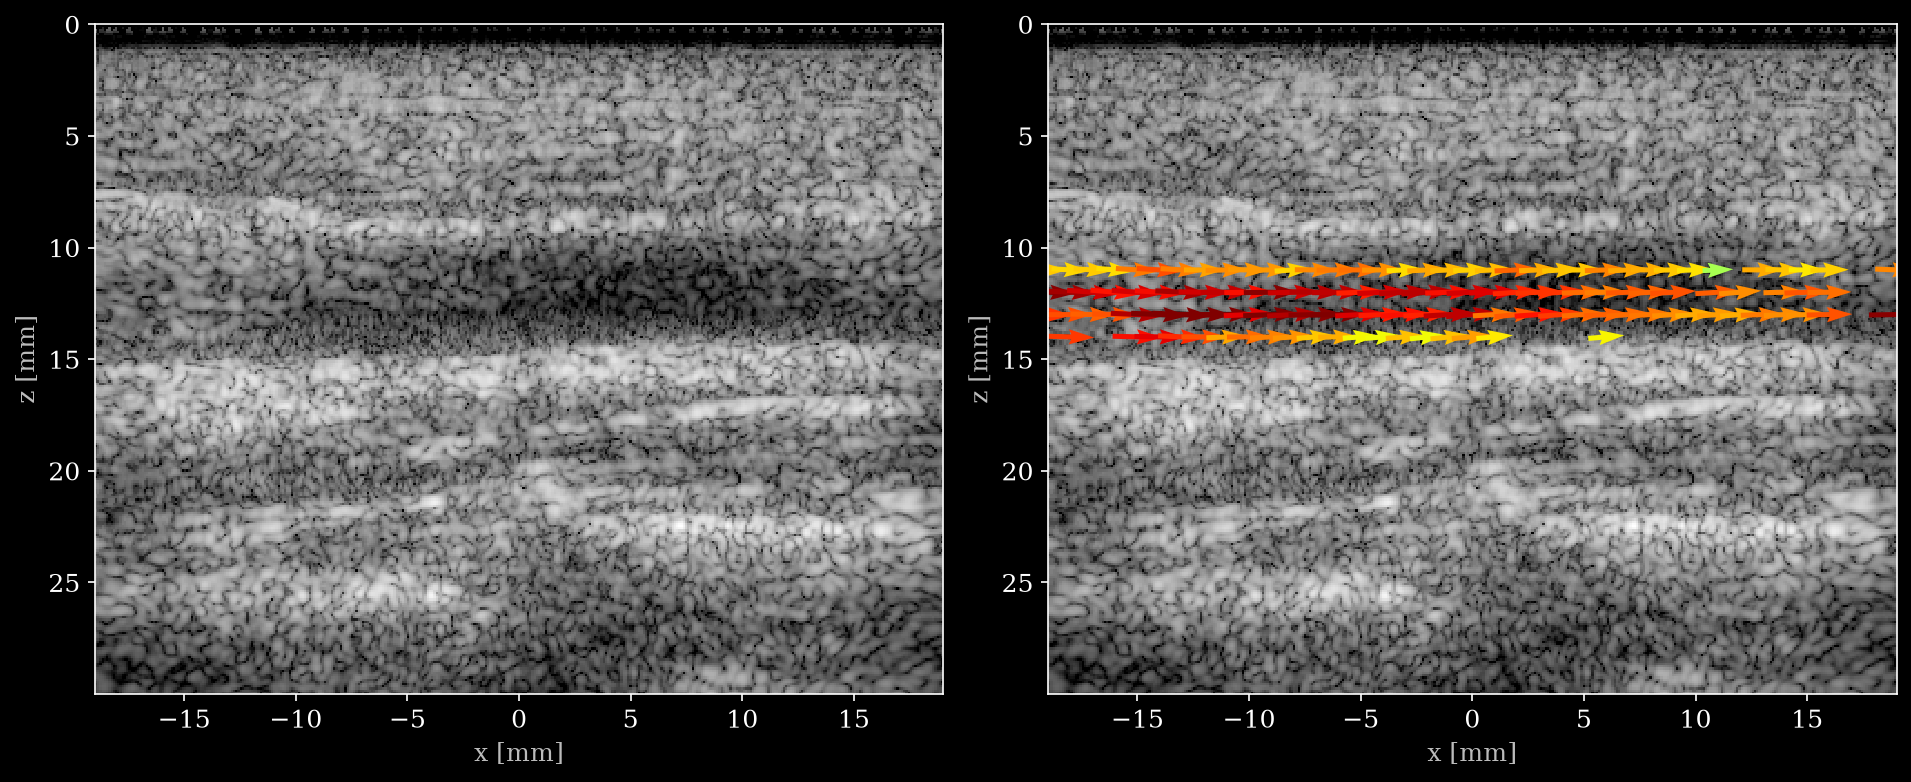
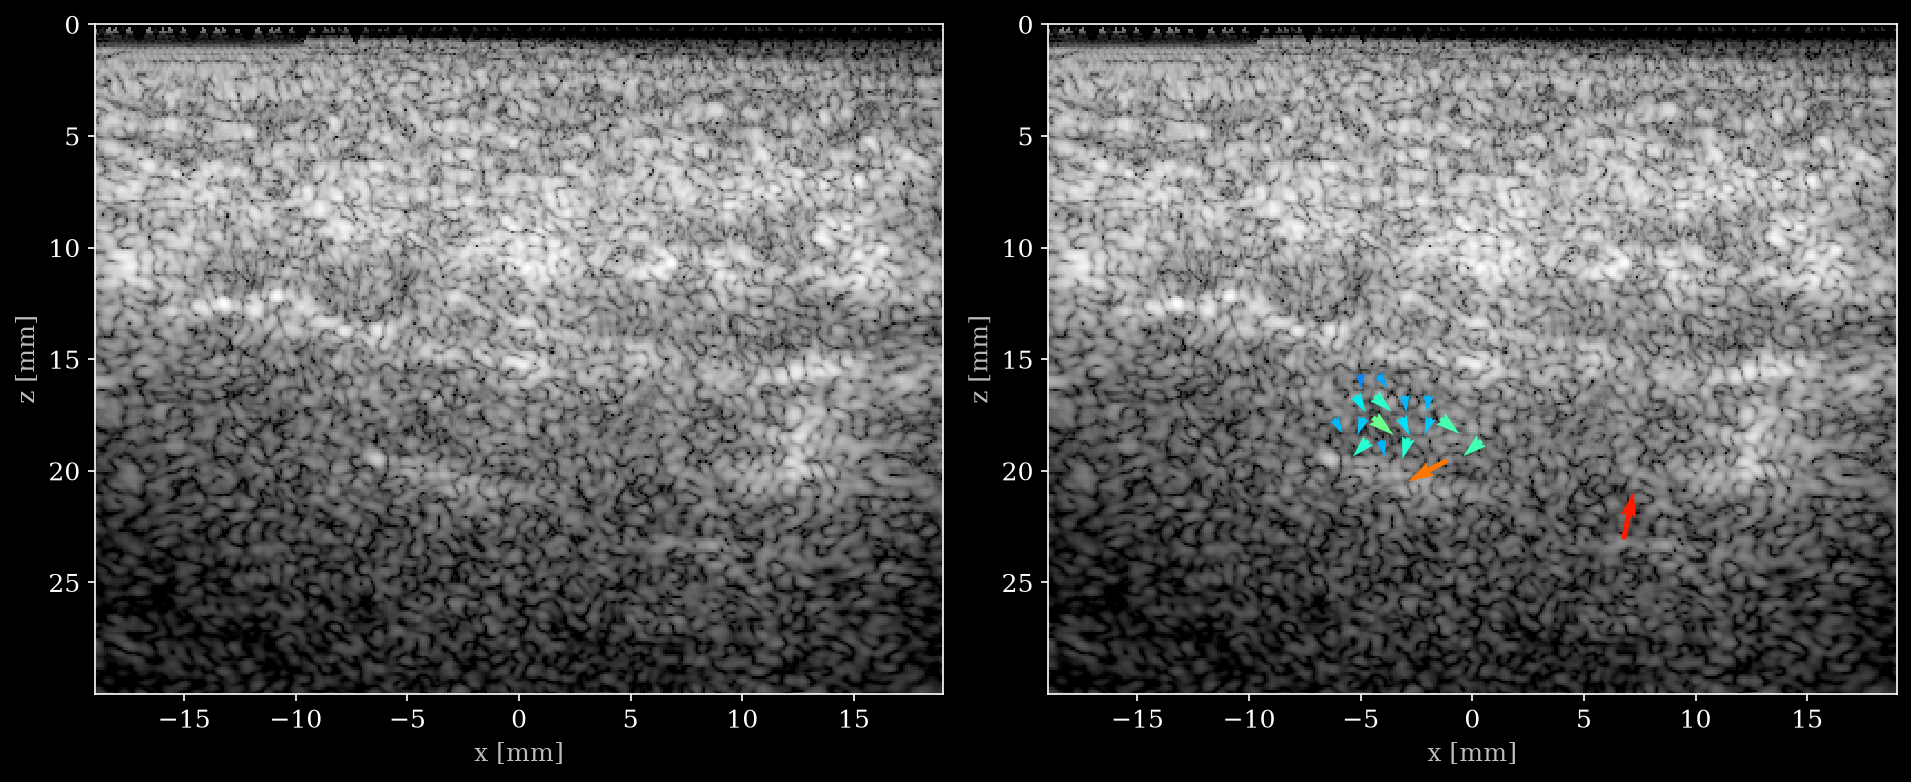
Revert "Waterloo updates"

diff --git a/datasets/waterloo-largeartery/reconstruct.py b/datasets/waterloo-largeartery/reconstruct.py
@@ -1,5 +1,5 @@
 # SPDX-License-Identifier: Apache-2.0
-"""Example reconstruction script for the waterloo-femoralvein dataset of OpenH-RF.
+"""Example reconstruction script for the waterloo-largeartery dataset of OpenH-RF.
 
 Dataset link: https://huggingface.co/datasets/nvidia/OpenH-RF/tree/main/waterloo-largeartery
 
@@ -56,21 +56,21 @@ DYNAMIC_RANGE = [-50, 0]  # dB; written to pipeline.yaml, tweak it there
 # zea process reproduces the same field of view.
 PARAMETERS = {
     "xlims": [-0.019, 0.019],
-    "zlims": [0.010, 0.060],
+    "zlims": [0.010, 0.045],  # RF runs out at 48.5 mm; signal ends ~41.8 mm
     "grid_size_x": 381,
-    "grid_size_z": 501,
+    "grid_size_z": 451,
     "dynamic_range": DYNAMIC_RANGE,
 }
 
 # --- Inputs -----------------------------------------------------------------
 # Defaults stream straight from the published corpus. Swap any of these for a
 # local path to run against your own copy.
-ZEA_FILE = "hf://nvidia/OpenH-RF/waterloo-largeartery/data/Acq0.hdf5"
+ZEA_FILE = "hf://nvidia/OpenH-RF/waterloo-largeartery/data/Acq5.hdf5"
 CONFIG = HERE / "pipeline.yaml"
 OUT = HERE / "assets" / "reconstruct_output.png"
 HF_CONFIG = "hf://nvidia/OpenH-RF/waterloo-largeartery/pipeline.yaml"
-FRAME = 5200
-POWER_THRESHOLD = 58.0  # Power Doppler mask threshold (dB); covers the vein lumen
+FRAME = 100
+POWER_THRESHOLD = 50.0  # Power Doppler mask threshold (dB); covers the vein lumen
 VMAX = 1.0  # Velocity color-scale max (m/s) for the quiver overlay; None -> 99th pct
 NO_DEALIAS = False  # Use the raw (aliased) velocity fields even when dealiased ones exist
 

diff --git a/datasets/waterloo-carotid/reconstruct.py b/datasets/waterloo-carotid/reconstruct.py
@@ -63,12 +63,12 @@ PARAMETERS = {
 # --- Inputs -----------------------------------------------------------------
 # Defaults stream straight from the published corpus. Swap any of these for a
 # local path to run against your own copy.
-ZEA_FILE = "hf://nvidia/OpenH-RF/waterloo-carotid/data/Acq1.hdf5"
+ZEA_FILE = "hf://nvidia/OpenH-RF/waterloo-carotid/data/Acq90.hdf5"
 CONFIG = HERE / "pipeline.yaml"
 OUT = HERE / "assets" / "reconstruct_output.png"
 HF_CONFIG = "hf://nvidia/OpenH-RF/waterloo-carotid/pipeline.yaml"
-FRAME = 250
-POWER_THRESHOLD = 55.0  # Power Doppler mask threshold (dB)
+FRAME = 100
+POWER_THRESHOLD = 38.0  # Power Doppler mask threshold (dB); this data peaks near 46
 
 
 def draw_velocity_field(

diff --git a/datasets/waterloo-largeartery/README.md b/datasets/waterloo-largeartery/README.md
@@ -1,5 +1,5 @@
 ---
-name: waterloo-femoralvein
+name: waterloo-largeartery
 pretty_name: UW-FemVeinRF
 license: cc-by-4.0
 task_categories:
@@ -23,9 +23,9 @@ size_categories:
 
 # UW-FemVein RF
 
-![Vector flow cineloop from Acq0.hdf5](assets/Acq0.gif)
+![Reconstructed cineloop from Acq5.hdf5](assets/Acq5.gif)
 
-*Cine loop of [`data/Acq0.hdf5`](https://huggingface.co/datasets/nvidia/OpenH-RF/blob/main/waterloo-largeartery/data/Acq0.hdf5), rendered from provided velocity fields.*
+*Cine loop of [`data/Acq5.hdf5`](https://huggingface.co/datasets/nvidia/OpenH-RF/blob/main/waterloo-largeartery/data/Acq5.hdf5), reconstructed from the raw channel data with the `pipeline.yaml` in this folder.*
 
 ## Dataset Description
 
@@ -67,13 +67,13 @@ The acquisitions can be processed with the `pipeline.yaml` definition in this fo
 
 ```bash
 zea process \
-  --dataset hf://nvidia/OpenH-RF/waterloo-largeartery/data/Acq0.hdf5 \
+  --dataset hf://nvidia/OpenH-RF/waterloo-largeartery/data/Acq5.hdf5 \
   --config hf://nvidia/OpenH-RF/waterloo-largeartery/pipeline.yaml \
   --n-frames 1 \
   --save-as png
 ```
 
-Alternatively, you can use the `reconstruct.py` [script](https://github.com/open-h/OpenH-RF/blob/main/datasets/waterloo-femoralvein/reconstruct.py) as provided in the [OpenH-RF GitHub repository](https://github.com/open-h/OpenH-RF).
+Alternatively, you can use the `reconstruct.py` [script](https://github.com/open-h/OpenH-RF/blob/main/datasets/waterloo-largeartery/reconstruct.py) as provided in the [OpenH-RF GitHub repository](https://github.com/open-h/OpenH-RF).
 
 Swap `--n-frames 1 --save-as png` for `--save-as gif` to get the cine loop. In the script, `ZEA_FILE`, `FRAME`, `POWER_THRESHOLD` (the power-Doppler mask threshold, in dB), `VMAX` (velocity colour-scale maximum) and `NO_DEALIAS` at the top select what is reconstructed and overlaid.
 
@@ -110,14 +110,23 @@ Per-sample contents of the converted HDF5:
 
 All `coordinates` arrays are per-pixel Cartesian positions in meters, last axis `[x, y, z]` (y = 0 for 2-D maps).
 
+## Shipped Example Acquisitions
 
+One example acquisition is included under `hdf5/` as a representative subset of the full dataset:
 
+| File | Subject | Anatomy | View | Condition | Frames |
+|---|---|---|---|---|---|
+| `hdf5/Acq0.hdf5` | 1 | Femoral Vein | Longitudinal | Contraction 8Kg HUT 40 | 9000-12000 |
+
+Each femoral vein acquisition comprises 2 steered plane-wave transmits (`n_tx = 2`), 2048/3072 axial samples, and 192 receive channels. Note that example provided was convrted with start-frame=9000 to get to the interesting part.
+
+The frame count in these examples is truncated for demonstration; full acquisitions contain the frame counts described below.
 
 ## Dataset Quantification
 
 **Current OpenH-RF release:** 15 HDF5 files; 941.96 GB (941,958,804,227 bytes) stored; root `zea_version` **0.1.5**. Sizes include all HDF5 contents and use decimal units (MB = 10^6 bytes, GB = 10^9 bytes, TB = 10^12 bytes), not decoded-array memory or original-source download sizes.
 
-Data was collected from 15 participants and consists of 15 acquisitions (one per participant), containing 12,000 frames of raw RF data per acquisition. Each participant performed isometric plantarflexion contractions at 8 Kg under head up tilt of 40 degrees. Each femoral vein acquisition comprises 2 steered plane-wave transmits (`n_tx = 2`), 2048/3072 axial samples, and 192 receive channels. 
+Data was collected from 15 participants and consists of 15 acquisitions (one per participant), containing 12,000 frames of raw RF data per acquisition. Each participant performed isometric plantarflexion contractions at 8 Kg under head up tilt of 40 degrees.
 
 ## Subject Metadata
 
@@ -145,9 +154,9 @@ Data was collected from 15 participants and consists of 15 acquisitions (one per
    - **Reconstruction Grid:** Cartesian coordinates mapped by a `PixelMap` representing a lateral range of $[-19, 19]\text{ mm}$ and axial depth of $[10, 60]\text{ mm}$ at $0.1\text{ mm}$ spatial resolution.
 3. **Clutter Filtering:** Clutter filtering is performed on the beamformed ensemble using a high-pass wall filter (normalized cut-off frequencies of 0.05 and 0.1, attenuation of 100 dB).
 4. **Multi-Angle Doppler Frequency Estimation:** Angle-specific Doppler frequencies are computed using an ensemble size of 64 frames with a step size of 1.
-   - For conventional vector velocity estimation, we used the following Tx-Rx angles: Tx: [-10°, -10°, 10°, 10°]; Rx: [-10°, 10°, -10°, 10°]
-   - For dealiased vector velocity estimation, we used the following Tx-Rx angles: Tx: [-10°, -10°, -10°,-10°, 10°, 10°]; Rx: [-10°, -3°, 6°, 10°, -6°, 3°,10°]
-   - Color Doppler map is selected as the first of these (Tx: -10°, Rx = -10°)
+   - For conventional vector velocity estimation, we used the following Tx-Rx angles: Tx: [-10, -10, 10, 10]; Rx: [-10, 10, -10, 10]
+   - For dealiased vector velocity estimation, we used the following Tx-Rx angles: Tx: [-10, -10, -10,-10, 10, 10]; Rx: [-10, -3, 6, 10, -6, 3,10]
+   - Color Doppler map is selected as the first of these (Tx: -10, Rx = -10)
 5. **Vector Doppler Velocity Estimation:** Lateral ($v_x$) and axial ($v_z$) velocity components are computed from the multi-angle Doppler frequency estimates using GPU-accelerated least-squares estimation. Lateral ($v_x$) and axial ($v_z$) dealiased velocity components are computed from the multi-angle Doppler frequency estimates using GPU-accelerated extended least-squares estimation.
 
 The full LITMUS processing pipeline (GPU DAS beamforming + multi-angle vector Doppler) is documented by the contributors. That documentation is provided for provenance and reproducibility; it depends on the LITMUS core Python package and the raw acquisition frames, so it is not runnable from this folder alone.
@@ -164,7 +173,7 @@ B. Y. S. Yiu and A. C. H. Yu, "Least-Squares Multi-Angle Doppler Estimators for 
 
 `reconstruct.py` builds a `zea.Pipeline` of DAS beamforming → envelope detection → normalization → log-compression **in code** and reconstructs a B-mode directly from `raw_data`, showing the raw-to-image flow without any config file. It also saves the pipeline to `pipeline.yaml` as a shareable recipe. Comparing the reconstruction against the stored (LITMUS) B-mode is a sanity check that the acquisition parameters and probe geometry are recorded correctly, and serves as a reproducible reference reconstruction.
 
-When the vector-flow fields (`vector_velocity_x/z`/`vector_velocity_x/z_deal` + `power_doppler`) are present, the vector velocity field is overlayed on the stored B-mode. The overlay uses `draw_velocity_field`, a single self-contained (numpy + matplotlib) helper reproduced inside `reconstruct.py` from the LITMUS core Python package (`litmus.core_py.visualization`), so the script has no dependency on the full LITMUS GPU stack.
+When the vector-flow fields (`vector_velocity_x/z`/`vector_velocity_x/z_deal` + `power_doppler`) are present, a third panel overlays the vector velocity field on the stored B-mode. The overlay uses `draw_velocity_field`, a single self-contained (numpy + matplotlib) helper reproduced inside `reconstruct.py` from the LITMUS core Python package (`litmus.core_py.visualization`), so the script has no dependency on the full LITMUS GPU stack.
 
 The result is written to `reconstruct_output.png`:
 

diff --git a/datasets/waterloo-carotid/README.md b/datasets/waterloo-carotid/README.md
@@ -22,9 +22,9 @@ size_categories:
 
 # UW-Carotid RF
 
-![Reconstructed cineloop from Acq1.hdf5](assets/Acq1.gif)
+![Reconstructed cineloop from Acq90.hdf5](assets/Acq90.gif)
 
-*Cine loop of [`data/Acq1.hdf5`](https://huggingface.co/datasets/nvidia/OpenH-RF/blob/main/waterloo-carotid/data/Acq1.hdf5), rendered using provided velocity fields.*
+*Cine loop of [`data/Acq90.hdf5`](https://huggingface.co/datasets/nvidia/OpenH-RF/blob/main/waterloo-carotid/data/Acq90.hdf5), reconstructed from the raw channel data with the `pipeline.yaml` in this folder.*
 
 ## Dataset Description
 
@@ -35,7 +35,7 @@ Raw RF frames (plane wave) and vector flow profiles of the human carotid arterie
 - Hassan Nahas <hassan.nahas@uwaterloo.ca>
 - Jason Y. -H. Hsu <jason.hsu@uwaterloo.ca>
 - Theresa Gu <theresa.gu@uwaterloo.ca>
-- Adrian J. Y. Chee <adrian.chee@uwaterloo.ca>
+- Adrian J. Y. Chee
 - Alfred C. H. Yu <alfred.yu@uwaterloo.ca>
 - LITMUS, University of Waterloo
 
@@ -65,7 +65,7 @@ The acquisitions can be processed with the `pipeline.yaml` definition in this fo
 
 ```bash
 zea process \
-  --dataset hf://nvidia/OpenH-RF/waterloo-carotid/data/Acq1.hdf5 \
+  --dataset hf://nvidia/OpenH-RF/waterloo-carotid/data/Acq90.hdf5 \
   --config hf://nvidia/OpenH-RF/waterloo-carotid/pipeline.yaml \
   --n-frames 1 \
   --save-as png
@@ -106,13 +106,24 @@ Per-sample contents of the converted HDF5:
 
 All `coordinates` arrays are per-pixel Cartesian positions in meters, last axis `[x, y, z]` (y = 0 for 2-D maps).
 
+## Shipped Example Acquisitions
+
+Two example acquisitions are included under `hdf5/` as a representative subset of the full dataset:
+
+| File | Subject | Anatomy | View | Condition | Frames |
+|---|---|---|---|---|---|
+| `hdf5/Acq0.hdf5` | 1 | Common Carotid Artery | Longitudinal | Baseline | 500 |
+| `hdf5/Acq62.hdf5` | 1 | Internal Carotid Artery | Cross-sectional | Baseline | 500 |
+
+Each common carotid artery frame comprises 2 steered plane-wave transmits (`n_tx = 2`), 2048 axial samples, and 128 receive channels. Each internal carotid artery frame comprises 1 steered plane-wave transmits (`n_tx = 1`), 1536 axial samples, and 128 receive channels.
+
+The frame count in these examples is truncated for demonstration; full acquisitions contain the frame counts described below.
+
 ## Dataset Quantification
 
 **Current OpenH-RF release:** 93 HDF5 files; 6.90 TB (6,902,089,770,179 bytes) stored; root `zea_version` **0.1.4**. Sizes include all HDF5 contents and use decimal units (MB = 10^6 bytes, GB = 10^9 bytes, TB = 10^12 bytes), not decoded-array memory or original-source download sizes.
 
-Data was collected from 8 participants, spanning carotid arteries (Common Carotid Artery and Internal Carotid Artery) in both longitudinal and cross-sectional views. In total, the dataset consists of 93 acquisitions, containing 30,000 or 36,000 frames of raw RF data per acquisition (47 acquisitions of 30,000 frames and 46 of 36,000 frames). 
-Each common carotid artery frame comprises 2 steered plane-wave transmits (`n_tx = 2`), 2048 axial samples, and 128 receive channels. Each internal carotid artery frame comprises 1 steered plane-wave transmits (`n_tx = 1`), 1536 axial samples, and 128 receive channels.
-
+Data was collected from 8 participants, spanning carotid arteries (Common Carotid Artery and Internal Carotid Artery) in both longitudinal and cross-sectional views. In total, the dataset consists of 93 acquisitions, containing 30,000 or 36,000 frames of raw RF data per acquisition (47 acquisitions of 30,000 frames and 46 of 36,000 frames).
 
 ## Subject Metadata
 
@@ -139,10 +150,10 @@ Each common carotid artery frame comprises 2 steered plane-wave transmits (`n_tx
    - **Dual Angle-Compounding:** Beamforming for B-mode and power Doppler is performed twice with opposite receive angles ($+15^{\circ}$ and $-15^{\circ}$). The final high-resolution beamformed image (HRI) is the average of these two acquisitions:
      $$HRI = \frac{HRI_{+15^{\circ}} + HRI_{-15^{\circ}}}{2}$$
    - **Reconstruction Grid:** Cartesian coordinates mapped by a `PixelMap` representing a lateral range of $[-19, 19]\text{ mm}$ and axial depth of $[0, 30]\text{ mm}$ at $0.1\text{ mm}$ spatial resolution.
-3. **Clutter Filtering:** Clutter filtering is performed on the beamformed ensemble using a high-pass wall filter (normalized cut-off frequencies of 0.1 and 0.15, attenuation of 100 db).
+3. **Clutter Filtering:** Clutter filtering is performed on the beamformed ensemble using a high-pass wall filter (normalized cut-off frequencies of 0.1 and 0.15, filter length of 100).
 4. **Multi-Angle Doppler Frequency Estimation:** Angle-specific Doppler frequencies are computed using an ensemble size of 64 frames with a step size of 1.
-   - For acquisitions with 2 tx angles, we used the following Tx-Rx angles: Tx: [-10°, -10°, 10°, 10°]; Rx: [-10°, 10°, -10°, 10°]
-   - For acquisitions with 1 tx angle: Tx: [-10°, -10°, -10°]; Rx: [-10°, 0°, 10°]
+   - For acquisitions with 2 tx angles, we used the following Tx-Rx angles: Tx: [-10, -10, 10, 10]; Rx: [-10, 10, -10, 10]
+   - For acquisitions with 1 tx angle: Tx: [-10, -10, -10]; Rx: [-10, 0, 10]
 5. **Vector Doppler Velocity Estimation:** Lateral ($v_x$) and axial ($v_z$) velocity components are computed from the multi-angle Doppler frequency estimates using least-squares estimation.
 
 The full LITMUS processing pipeline (GPU DAS beamforming + multi-angle vector Doppler) is documented by the contributors. That documentation is provided for provenance and reproducibility; it depends on the LITMUS core Python package and the raw acquisition frames, so it is not runnable from this folder alone.
